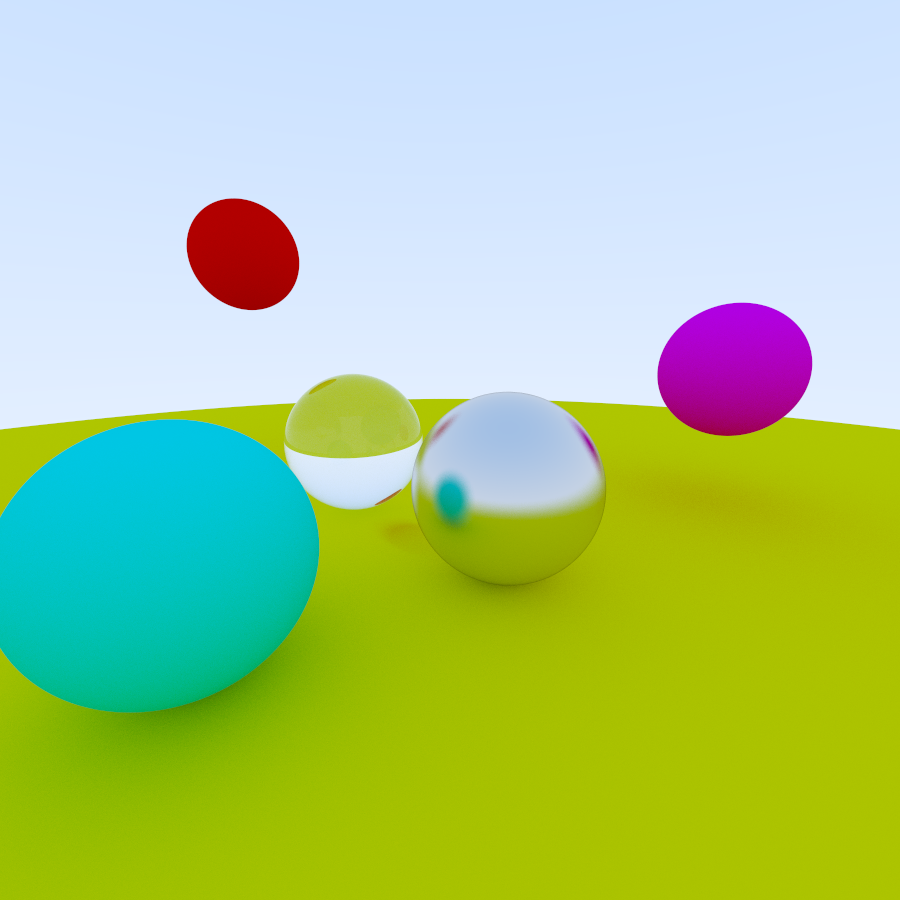
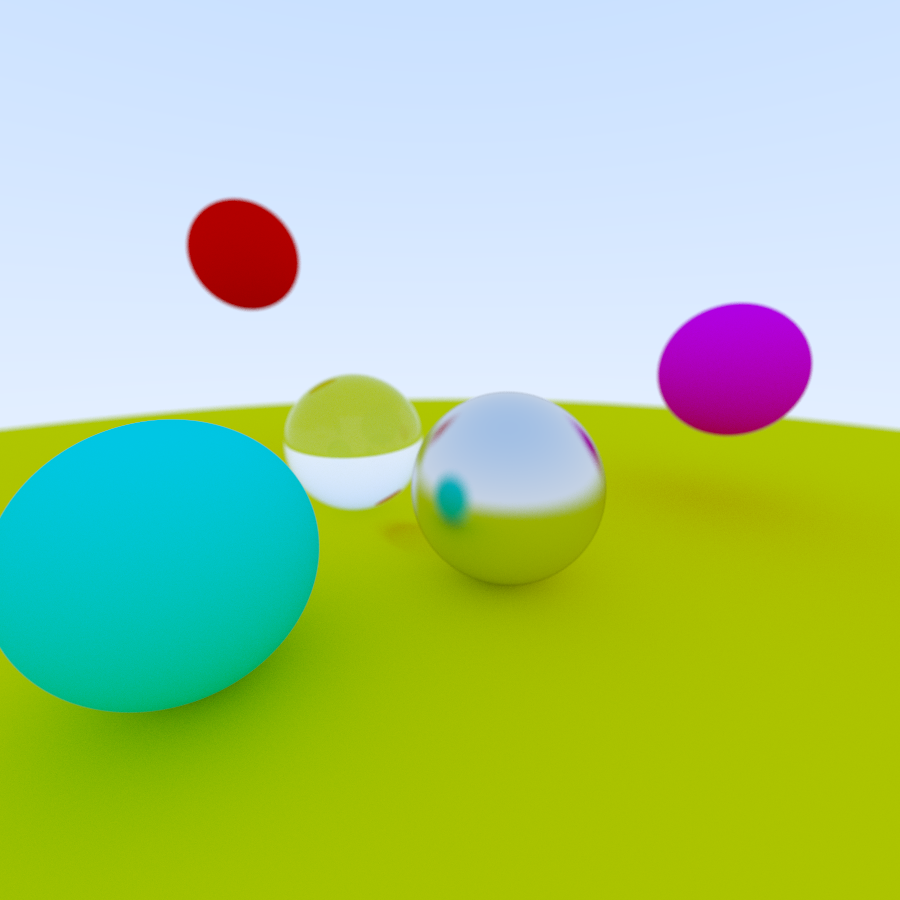
Add depth of field

diff --git a/src/main.rs b/src/main.rs
@@ -119,6 +119,14 @@ impl Vec3{
         let eps = 1e-8;
         self.x.abs() < eps && self.y.abs() < eps && self.z.abs() < eps
     }
+
+    fn random_in_unit_disk() -> Vec3{
+        loop{
+            let p = Vec3::new(rand_in_range(-1.0, 1.0), rand_in_range(-1.0, 1.0), 0.0);
+            if p.squared_length() >= 1.0 { continue; }
+            return p;
+        }
+    }
 }
 
 impl Add for Vec3 {
@@ -266,8 +274,6 @@ trait Material{
     fn scatter(&self, r_in : &Ray, rec : &HitRecord, attenuation : &mut Vec3, scattered : &mut Ray) -> bool;
 }
 
-
-#[derive(Debug, Copy, Clone, PartialEq)]
 struct Lambertian{
     albedo : Vec3
 }
@@ -365,32 +371,15 @@ struct Camera{
     origin : Vec3,
     lower_left_corner : Vec3,
     horizontal : Vec3,
-    vertical : Vec3
+    vertical : Vec3,
+    u : Vec3,
+    v : Vec3,
+    w : Vec3,
+    depth_of_field : bool,
+    lens_radius : f64
 }
 
 impl Camera {
-    //fn default() -> Camera{
-    //    Camera { aspect_ratio: ASPECT_RATIO, 
-    //        viewport_height: 2.0, 
-    //        viewport_width: ASPECT_RATIO * 2.0, 
-    //        focal_length: 1.0, 
-    //        origin: Vec3::zero(), 
-    //        lower_left_corner: Vec3::zero() - Vec3::new(ASPECT_RATIO * 2.0, 0.0, 0.0)/2.0 - Vec3::new(0.0, 2.0, 0.0)/2.0 - Vec3::new(0.0, 0.0, 1.0), 
-    //        horizontal: Vec3::new(ASPECT_RATIO * 2.0, 0.0, 0.0), 
-    //        vertical: Vec3::new(0.0, 2.0, 0.0) }
-    //}
-//
-    //fn new(aspect_ratio : f64, viewport_height : f64, focal_length : f64, origin : Vec3) -> Camera{
-    //    let viewport_width = aspect_ratio * viewport_height;
-    //    let horizontal = Vec3::new(viewport_width, 0.0, 0.0);
-    //    let vertical = Vec3::new(0.0, viewport_height, 0.0);
-    //    let lower_left_corner = origin - horizontal / 2.0 - vertical / 2.0 - Vec3::new(0.0, 0.0, focal_length);
-//
-    //    Camera { aspect_ratio: aspect_ratio, viewport_height: viewport_height, 
-    //        viewport_width: viewport_width, focal_length: focal_length, 
-    //        origin: origin, lower_left_corner: lower_left_corner, 
-    //        horizontal: horizontal, vertical: vertical }
-    //}
 
     fn new(lookfrom : Vec3, lookat : Vec3, vup : Vec3, vfov : f64, aspect_ratio : f64 ) -> Camera{
         let theta = deg2rad(vfov);
@@ -406,11 +395,35 @@ impl Camera {
         let vertical = viewport_height * v;
         let lower_left_corner = lookfrom - horizontal / 2.0 - vertical / 2.0 - w;
 
-        Camera { origin: lookfrom, lower_left_corner: lower_left_corner, horizontal: horizontal, vertical: vertical }
+        Camera { origin: lookfrom, lower_left_corner: lower_left_corner, horizontal: horizontal, vertical: vertical, u : u, v : v, w : w, depth_of_field : false, lens_radius : 0.0 }
+    }
+
+    fn newWithDepth(lookfrom : Vec3, lookat : Vec3, vup : Vec3, vfov : f64, aspect_ratio : f64, aperture : f64, focus_dist : f64) -> Camera{
+        let theta = deg2rad(vfov);
+        let h = f64::tan(theta/2.0);
+        let viewport_height = 2.0 * h;
+        let viewport_width = aspect_ratio * viewport_height;
+
+        let w = (lookfrom - lookat).unit_vector();
+        let u = (vup.cross(&w)).unit_vector();
+        let v = w.cross(&u);
+
+        let horizontal = focus_dist * viewport_width * u;
+        let vertical = focus_dist * viewport_height * v;
+        let lower_left_corner = lookfrom - horizontal / 2.0 - vertical / 2.0 - focus_dist * w;
+
+        Camera { origin: lookfrom, lower_left_corner: lower_left_corner, horizontal: horizontal, vertical: vertical, u : u, v : v, w : w, depth_of_field : true, lens_radius : aperture / 2.0 }
     }
 
     fn get_ray(&self, s: f64, t: f64) -> Ray{
-        Ray::new(self.origin, self.lower_left_corner + s * self.horizontal + t * self.vertical - self.origin)
+        if self.depth_of_field {
+            let rd = self.lens_radius * Vec3::random_in_unit_disk();
+            let offset = self.u * rd.x + self.v * rd.y;
+            Ray::new(self.origin + offset, self.lower_left_corner + s * self.horizontal + t * self.vertical - self.origin - offset)
+        }
+        else{
+            Ray::new(self.origin, self.lower_left_corner + s * self.horizontal + t * self.vertical - self.origin)
+        } 
     }
 }
 
@@ -516,12 +529,9 @@ fn main() {
     world.push(Arc::new(Sphere::new(Vec3::new(0.3, 0.0, -1.75), 0.5, mat3.clone())));
     
     // Camera
-    let camera = Camera::new( Vec3::new(0.0, 0.8, 0.5), 
-                                        Vec3::new(0.0, 0.4, -1.0), 
-                                            Vec3::new(0.0, 1.0, 0.0), 
-                                            90.0, 
-                                            ASPECT_RATIO);
-    
+    //let camera = Camera::new( Vec3::new(0.0, 0.8, 0.5), Vec3::new(0.0, 0.4, -1.0), Vec3::new(0.0, 1.0, 0.0), 90.0, ASPECT_RATIO);
+    let camera = Camera::newWithDepth( Vec3::new(0.0, 0.8, 0.5), Vec3::new(0.0, 0.4, -1.0), Vec3::new(0.0, 1.0, 0.0), 90.0, ASPECT_RATIO, 0.03, (Vec3::new(0.0, 0.8, 0.5) - Vec3::new(0.0, 0.4, -1.0)).length());
+
     // Iterate over all pixels in the image.
     image.enumerate_pixels_mut().par_bridge().for_each(|(x, y, pixel)|{
         let y = (HEIGHT - 1) - y; 
